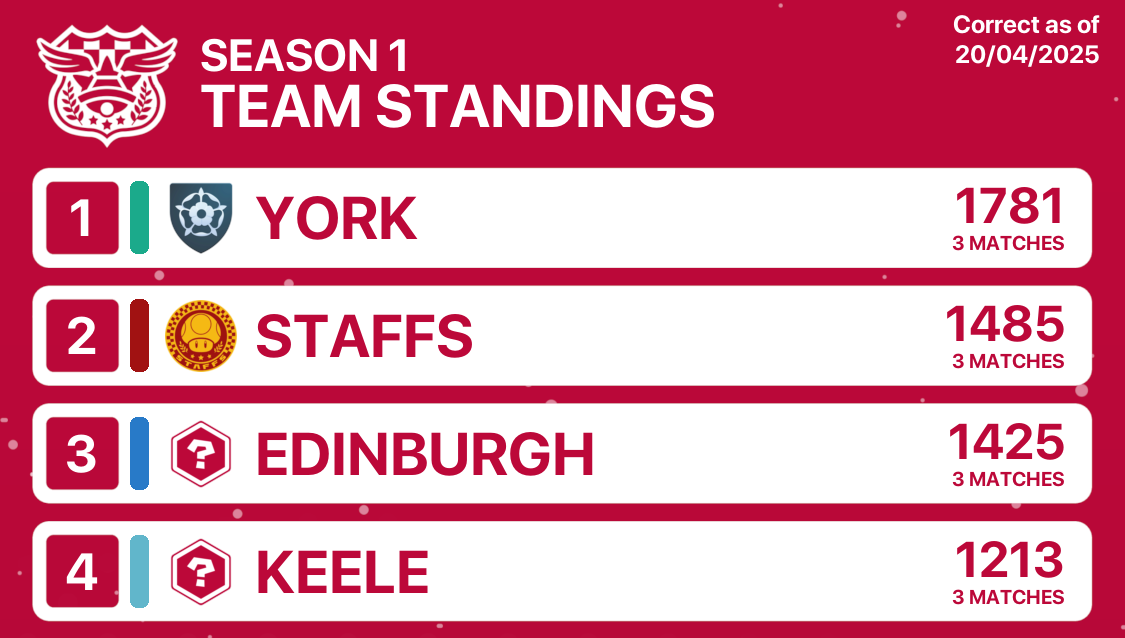
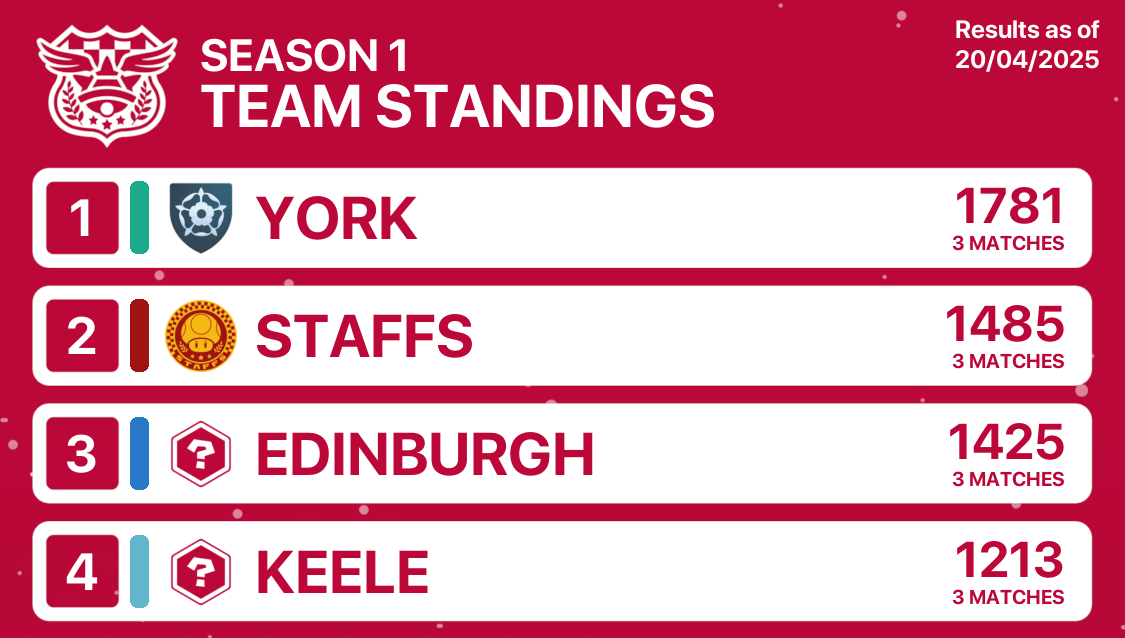
FIX: tweak blog generation

Changed region(s): [[0.84, 0.0298, 0.9956, 0.1191]]

diff --git a/pages/news/index.html b/pages/news/index.html
@@ -69,7 +69,7 @@
             <div id="news-container" class="news-container after-title news-container-override">
                 <div class="news-box">
                     <article class="news-text">
-                        <a href="pages/news/2025-04-19/umkl-discord/" class="ref" target="_blank"><span class="news-title">📌 Information for universities wanting to join</span></a><br>
+                        <a href="pages/news/2025-04-19/umkl-discord/" class="ref"><span class="news-title">📌 Information for universities wanting to join</span></a><br>
                         <span class="news-desc">Read this if you are interested in your uni joining the UMKL or if...</span>
                     </article>
                     <div class="news-image"><img loading="lazy" src="assets/image/news/mariokartbanner.webp"></div>
@@ -78,7 +78,7 @@
 
                 <div class="news-box">
                     <article class="news-text">
-                        <a href="pages/news/2025-04-19/umkl-discord/" class="ref" target="_blank"><span class="news-title">Join the UMKL Discord Server!</span></a><br>
+                        <a href="pages/news/2025-04-19/umkl-discord/" class="ref"><span class="news-title">Join the UMKL Discord Server!</span></a><br>
                         <span class="news-desc">All matches are organised through the UMKL Discord server. Please join it to take part in a match!</span>
                     </article>
                     <div class="news-image"><img loading="lazy" src="assets/image/news/discordinspire.webp"></div>
@@ -87,7 +87,7 @@
 
                 <div class="news-box">
                     <article class="news-text">
-                        <a href="pages/news/2025-04-19/umkl-intro" class="ref" target="_blank"><span class="news-title">Welcome to the UMKL!</span></a><br>
+                        <a href="pages/news/2025-04-19/umkl-intro" class="ref"><span class="news-title">Welcome to the UMKL!</span></a><br>
                         <span class="news-desc">We are a Mario Kart 8 Deluxe championship featuring teams from universities across the UK!</span>
                     </article>
                     <div class="news-image"><img loading="lazy" src="assets/image/news/umklbanner.webp"></div>

diff --git a/index.html b/index.html
@@ -105,7 +105,7 @@
             <div id="news-container" class="news-container after-title">
                 <div class="news-box">
                     <article class="news-text">
-                        <a href="pages/news/2025-04-19/umkl-discord/" class="ref" target="_blank"><span class="news-title">📌 Information for universities wanting to join</span></a><br>
+                        <a href="pages/news/2025-04-19/umkl-discord/" class="ref"><span class="news-title">📌 Information for universities wanting to join</span></a><br>
                         <span class="news-desc">Read this if you are interested in your uni joining the UMKL or if...</span>
                     </article>
                     <div class="news-image"><img loading="lazy" src="assets/image/news/mariokartbanner.webp"></div>
@@ -114,7 +114,7 @@
 
                 <div class="news-box">
                     <article class="news-text">
-                        <a href="pages/news/2025-04-19/umkl-discord/" class="ref" target="_blank"><span class="news-title">Join the UMKL Discord Server!</span></a><br>
+                        <a href="pages/news/2025-04-19/umkl-discord/" class="ref"><span class="news-title">Join the UMKL Discord Server!</span></a><br>
                         <span class="news-desc">All matches are organised through the UMKL Discord server. Please join it to take part in a match!</span>
                     </article>
                     <div class="news-image"><img loading="lazy" src="assets/image/news/discordinspire.webp"></div>
@@ -123,7 +123,7 @@
 
                 <div class="news-box">
                     <article class="news-text">
-                        <a href="pages/news/2025-04-19/umkl-intro" class="ref" target="_blank"><span class="news-title">Welcome to the UMKL!</span></a><br>
+                        <a href="pages/news/2025-04-19/umkl-intro" class="ref"><span class="news-title">Welcome to the UMKL!</span></a><br>
                         <span class="news-desc">We are a Mario Kart 8 Deluxe championship featuring teams from universities across the UK!</span>
                     </article>
                     <div class="news-image"><img loading="lazy" src="assets/image/news/umklbanner.webp"></div>

diff --git a/pages/teams/index.html b/pages/teams/index.html
@@ -84,7 +84,11 @@
                     <option value="1">Season 1</option>
                 </select>
             </div>
-            <p>Click a team to view their profile</p>
+
+            <p>
+                Click a team to view their profile<br>
+                <button id="shareButton">Share current results</button>
+            </p>
 
             <div id="JSTeamBox" class="teamBoxContainer">
                 Loading team data...
@@ -101,4 +105,18 @@
             <a href="https://discord.gg/6jS7YUqnbh" title="UMKL Discord Server" class="no-color-link no-underline-link fa-brands fa-discord"></a>            
         </footer>
     </body>
+
+    <script>
+        const shareButton = document.getElementById("shareButton")
+
+        // Share must be triggered by "user activation"
+        btn.addEventListener("click", async () => {
+            try {
+                await navigator.share(shareData);
+                resultPara.textContent = "MDN shared successfully";
+            } catch (err) {
+                resultPara.textContent = `Error: ${err}`;
+            }
+        });
+    </script>
 </html>

diff --git a/genpage.py b/genpage.py
@@ -109,7 +109,7 @@ BLANK_NEWS_PAGE = """
 <!DOCTYPE html>
 <html lang="en" data-overlayscrollbars-initialize>
     <head>
-        <base href="../../">
+        <base href="../../../../">
     
         <meta charset="utf-8">
         <meta name="viewport" content="width=device-width, initial-scale=1">
@@ -234,7 +234,7 @@ def create_new_blog():
     new_blog = f"""
                 <div class="news-box">
                     <article class="news-text">
-                        <a href="pages/news/{url_date}/{link}/" class="ref" target="_blank"><span class="news-title">{title}</span></a><br>
+                        <a href="pages/news/{url_date}/{link}/" class="ref"><span class="news-title">{title}</span></a><br>
                         <span class="news-desc">{desc}</span>
                     </article>
                     <div class="news-image"><img loading="lazy" src="{image}"></div>
@@ -289,7 +289,7 @@ def create_new_blog():
     print("News articles added to front page and sites/news/")
 
     os.makedirs(f"pages/news/{url_date}/{link}", exist_ok=True)
-    with open(f"pages/teams/{url_date}/{link}/index.html", "a+") as f:
+    with open(f"pages/news/{url_date}/{link}/index.html", "a+", encoding='utf-8') as f:
         content = BLANK_NEWS_PAGE.replace("{TITLE}", title).replace("{DESC}", desc).replace("{IMAGE}", image).replace("{DATE}", date).replace("{LINK}", f"pages/news/{url_date}/{link}")
         f.write(content)
 

diff --git a/graphics.py b/graphics.py
@@ -200,7 +200,7 @@ def create_team_standings_image(
     add_text(f"SEASON {logic.get_current_season()}", (TITLE_POSITION[0], TITLE_POSITION[1] - 50), DEFAULT_FONT, TITLE_FONT_SIZE - 15, TITLE_COLOR, anchor="lm")
     add_text("TEAM STANDINGS", TITLE_POSITION, DEFAULT_FONT, TITLE_FONT_SIZE, TITLE_COLOR, anchor="lm")
     timestamp = datetime.now().strftime("%d/%m/%Y")
-    add_text(f"Correct as of\n{timestamp}", (TITLE_POSITION[0] + 900, TITLE_POSITION[1] - 90), DEFAULT_FONT, TITLE_FONT_SIZE - 35, TITLE_COLOR, anchor="rt")
+    add_text(f"Results as of\n{timestamp}", (TITLE_POSITION[0] + 900, TITLE_POSITION[1] - 85), DEFAULT_FONT, TITLE_FONT_SIZE - 35, TITLE_COLOR, anchor="rt")
 
     # Draw team standings
     for i, (team_id, current_points) in enumerate(team_standings[:MAX_TEAMS]):
